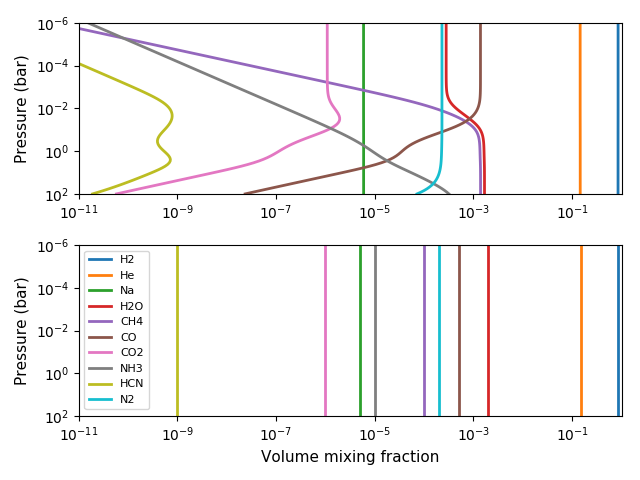
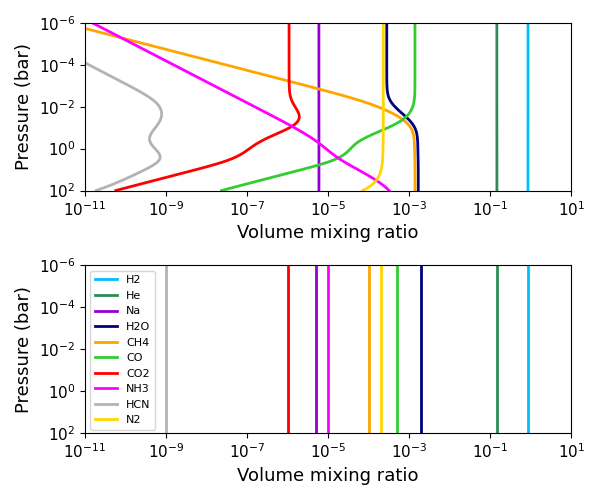
Updated getting started and atmosphere tutorial docs.

Changed region(s): [[0.0, 0.0312, 0.99, 0.9688]]

diff --git a/docs/atm_tutorial.rst b/docs/atm_tutorial.rst
@@ -28,7 +28,8 @@ This run mode generates a 1D atmospheric model (pressure, temperature,
 abundances, and altitude profiles), and saves it to a file.  At minimum,
 the user needs to provide the arguments required to compute the
 pressure and temperature profiles.  Further, ``Pyrat Bay`` will
-compute abundance profiles only if the user provides the respective
+compute volume-mixing ratio (abundance) profiles only if the user sets the
+``chemistry`` provides the respective
 arguments.  Likewise, the code will compute the altitude profiles only
 if the user provides the respective arguments (which also require that
 the abundance profiles are defined).
@@ -60,11 +61,10 @@ or through the ``punits`` key (in-place units take precedence over
 Temperature Profiles
 --------------------
 
-Currently, there are three available temperature models that can be
-set with the ``tmodel`` key.
-Each one of these require a different set of parameters (``tpars``).
-The models, parameters, and references are listed in the following
-table:
+Currently, there are three temperature models (``tmodel`` argument) to
+compute temperature profiles.  Each one requires a different set of
+parameters (``tpars``), which is described in the table and sections below:
+
 
 =================== ==================================================== ====
 Models (``tmodel``) Parameters (``tpars``)                               References
@@ -172,8 +172,17 @@ And the results should look like this:
 Abundance Profiles
 ------------------
 
-Currently, ``Pyrat Bay`` implements two abundance models: uniform- and
-thermochemical-equilibrium-abundance (TEA) profiles.
+Currently, there are two chemistry models (``chemistry`` argument) to
+compute volume-mixing-ratio abundances: uniform or thermochemical
+equilibrium.  Each one requires a different set of arguments, which is
+described in the table and sections below:
+
+====================== ==================================================== ====
+Models (``chemistry``) Required arguments [optional arguments]              References
+====================== ==================================================== ====
+uniform                ``species``, ``uniform``                                     ---
+tea                    ``species``, ``elements``, [``xsolar``, ``escale`` ] [Blecic2016]_
+====================== ==================================================== ====
 
 
 Uniform abundances
@@ -195,7 +204,7 @@ Thermochemical-equilibrium Abundances
 ^^^^^^^^^^^^^^^^^^^^^^^^^^^^^^^^^^^^^
 
 ``Pyrat Bay`` computes abundances in thermochemical equilibrium via
-the TEA package ([Blecic2016]_), by minimizing the Gibbs free energy at
+the TEA package [Blecic2016]_, by minimizing the Gibbs free energy at
 each layer.  To produce a TEA model, the configuration file must
 contain the ``species`` key specifying the species to include in the
 atmosphere, the ``elements`` key specifying the elemental composition.
@@ -203,7 +212,7 @@ An atmosphere config file must also set the ``atmfile`` key specifying
 the output atmospheric file name.
 
 The TEA run assumes a solar elemental composition from [Asplund2009]_;
-however, the user can enhance the metallicity of metals by setting the
+however, the user can scale the abundance of metals by setting the
 ``xsolar`` key, or can scale individual elemental abundances by setting
 the ``escale`` key element and scale factor pairs:
 
@@ -226,39 +235,25 @@ Aprofiles for the configuration files shown above:
     plt.ion()
 
     import pyratbay as pb
-    import pyratbay.atmosphere as pa
-    import pyratbay.constants as pc
+    import pyratbay.plots as pp
 
     # Before running the rest of this script, you'll need to copy the
     # config files to your current folder, you can find them here, e.g.:
-    # print(f'{pc.ROOT}examples/tutorial/atmosphere_tea.cfg')
+    # print(f'{pb.constants.ROOT}examples/tutorial/atmosphere_tea.cfg')
 
     # Generate a uniform and a thermochemical-equilibrium atmospheric model:
     pressure, temp, q_tea, species, radius = pb.run("atmosphere_tea.cfg")
     pressure, temp, q_uniform, species, radius = pb.run("atmosphere_uniform.cfg")
 
-    # Pressure in bar units:
-    press = pressure / pc.bar
-
     # Plot the results:
-    plt.figure(12)
+    plt.figure(12, (6,5))
     plt.clf()
-    ax = plt.subplot(211)
-    for q, spec in zip(q_tea.T, species):
-        plt.loglog(q, press, label=spec, lw=2)
-
-    plt.ylim(np.amax(press), np.amin(press))
-    plt.xlim(1e-11, 1.0)
-    plt.ylabel("Pressure (bar)", fontsize=11)
-    ax = plt.subplot(212)
-    for q, spec in zip(q_uniform.T, species):
-        plt.loglog(q, press, label=spec, lw=2)
-
-    plt.ylim(np.amax(press), np.amin(press))
-    plt.xlim(1e-11, 1.0)
-    plt.xlabel("Volume mixing fraction", fontsize=11)
-    plt.ylabel("Pressure (bar)", fontsize=11)
-    plt.legend(loc='best', fontsize=8)
+    ax1 = pp.abundance(
+        q_tea, pressure, species, colors='default', xlim=[1e-11, 10.0],
+        legend_fs=0, ax=plt.subplot(211))
+    ax2 = pp.abundance(
+        q_uniform, pressure, species, colors='default', xlim=[1e-11, 10.0],
+        legend_fs=8, ax=plt.subplot(212))
     plt.tight_layout()
 
 And the results should look like this:
@@ -267,4 +262,3 @@ And the results should look like this:
    :width: 70%
    :align: center
 
-----------------------------------------------------------------------

diff --git a/docs/getstarted.rst b/docs/getstarted.rst
@@ -132,12 +132,26 @@ Download the water line-transition database from the HITRAN server and unzip it:
    unzip 01_hit12.zip
 
 
-Copy the input and configuration files for the demo from the examples
-folder to your working directory:
+Copy the input and configuration files for the demo from the `examples
+folder
+<https://github.com/pcubillos/pyratbay/tree/master/examples/demo>`_ to
+your working directory. You can find these files on your local machine
+with the following Python script:
 
-.. code-block:: shell
+.. code-block:: python
 
-   cp $topdir/pyratbay/examples/demo/* .
+    # This Python script shows you where the demo files are located:
+    import pyratbay.constants as pc
+    demo_folder = f'{pc.ROOT}examples/demo'
+    print(demo_folder)
+
+    # You can either copy the file from this folder to your current dir
+    # using the command line or the following Python script:
+    import os
+    import shutil
+    for file in os.listdir(demo_folder):
+        shutil.copy(f'{demo_folder}/{file}', file)
+
 
 Execute these commands from the shell to create a
 Transition-Line-Information (TLI) file, and then to use it to compute

diff --git a/docs/spec_tutorial.rst b/docs/spec_tutorial.rst
@@ -60,7 +60,7 @@ compute the spectrum.  If the file pointed by ``atmfile`` does not
 exist, the codel will attempt to produce it (provided all necessary
 input parameters are set in the configuration file).  The atmospheric
 model can be produced with ``Pyrat Bay`` or be a custom input from the
-user (as long as it follows the right format).
+user (as long as it follows the right format, see the `API <file:///home/pcubillos/Dropbox/IWF/projects/2014_pyratbay/sphinxdoc-pyratbay/html/api.html#pyratbay.io.write_atm>`_).
 
 
 Spectrum Sampling
